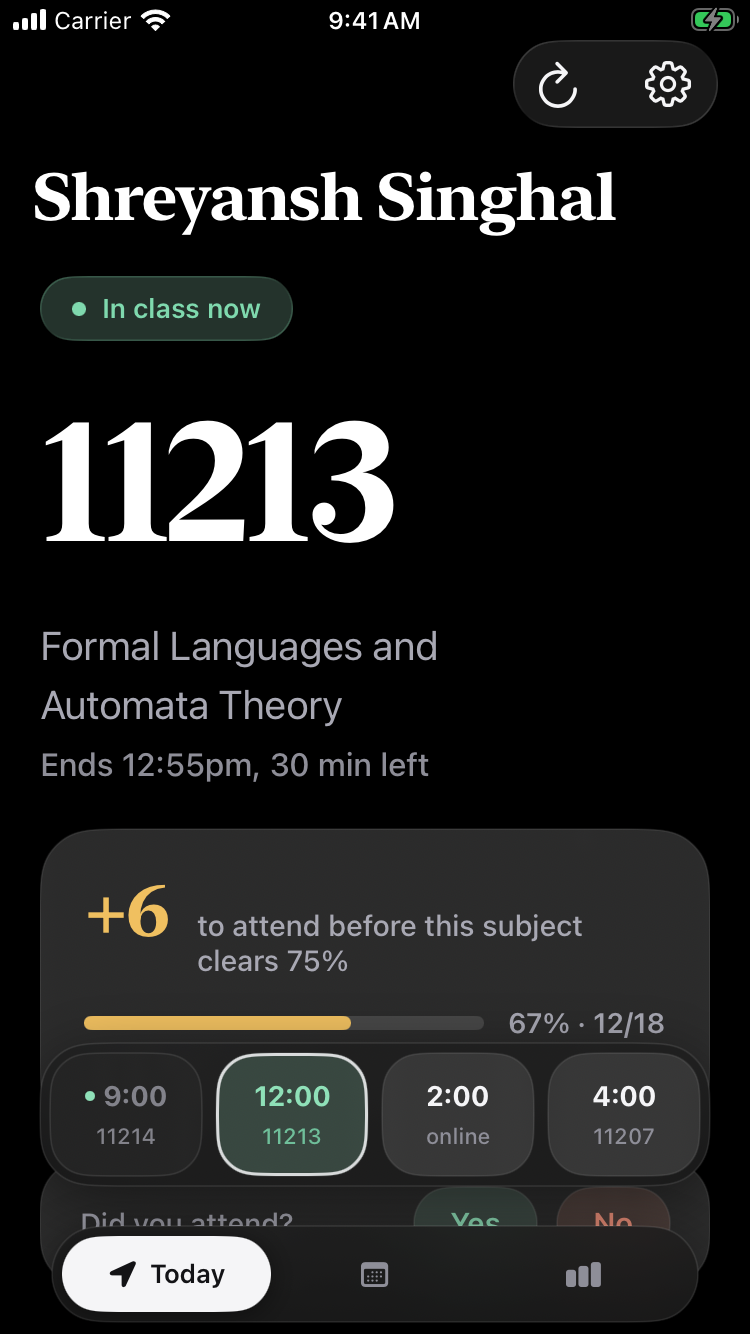
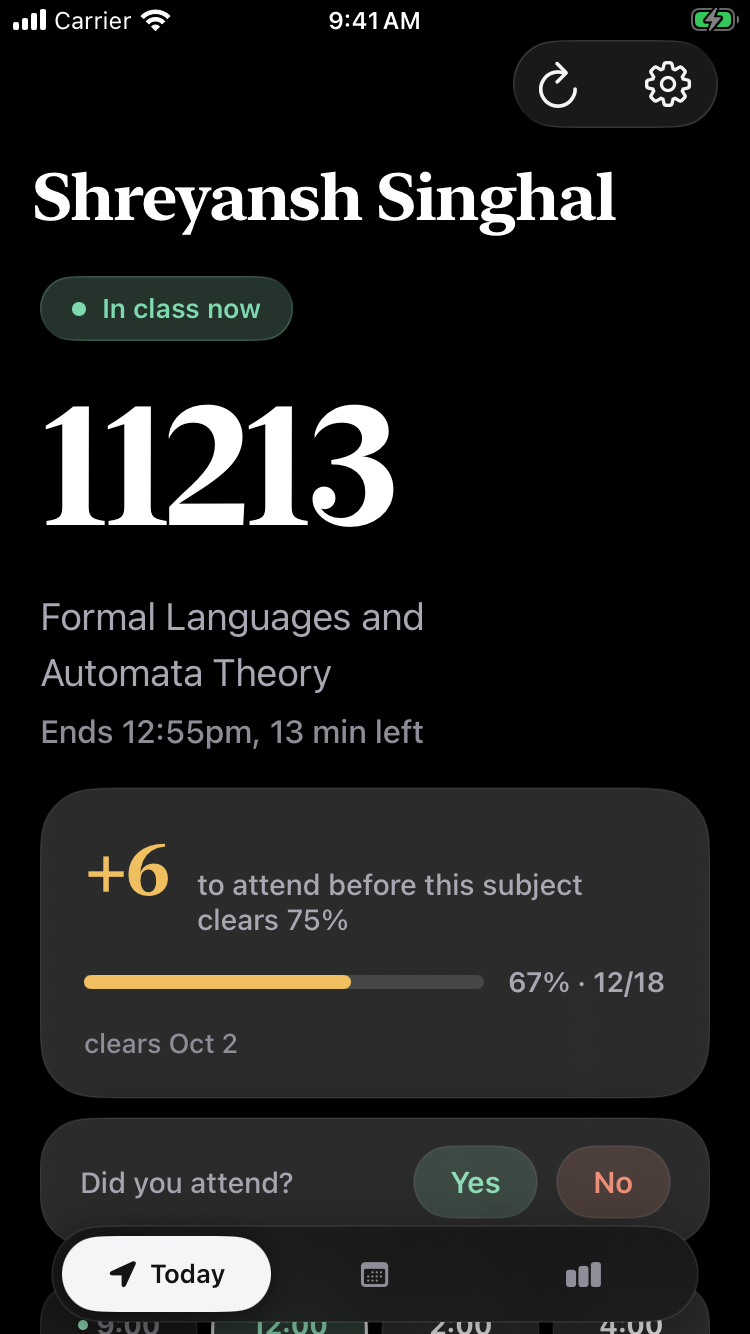
Name the subject on its own screen, and put the history last
A long subject name truncates in the navigation bar, and the card underneath
says "to attend before this clears 75%" - so on the worst-named subjects
nothing on the screen said which one it was. The card names itself now.

The verdict follows the number it qualifies; the register is history and
reads after both.

diff --git a/App/Views/SubjectView.swift b/App/Views/SubjectView.swift
@@ -34,8 +34,8 @@ struct SubjectView: View {
         ScrollView(showsIndicators: false) {
             VStack(alignment: .leading, spacing: 16) {
                 headline
-                if !daywise.isEmpty { register }
                 if let tm = term { schedule(tm) }
+                if !daywise.isEmpty { register }
                 if series.count >= 2 { trend }
             }
             .padding(.horizontal, 20)
@@ -52,6 +52,13 @@ struct SubjectView: View {
     private var headline: some View {
         let b = row.budget
         return VStack(alignment: .leading, spacing: 14) {
+            Text(row.key)
+                .r(12.5, .semibold)
+                .textCase(.uppercase)
+                .kerning(0.6)
+                .foregroundStyle(Color.ink3)
+                .fixedSize(horizontal: false, vertical: true)
+
             HStack(alignment: .firstTextBaseline, spacing: 12) {
                 Text(b.state == .empty ? "—" : (b.state == .short ? "+\(b.value)" : "\(b.value)"))
                     .d(42, .bold)
